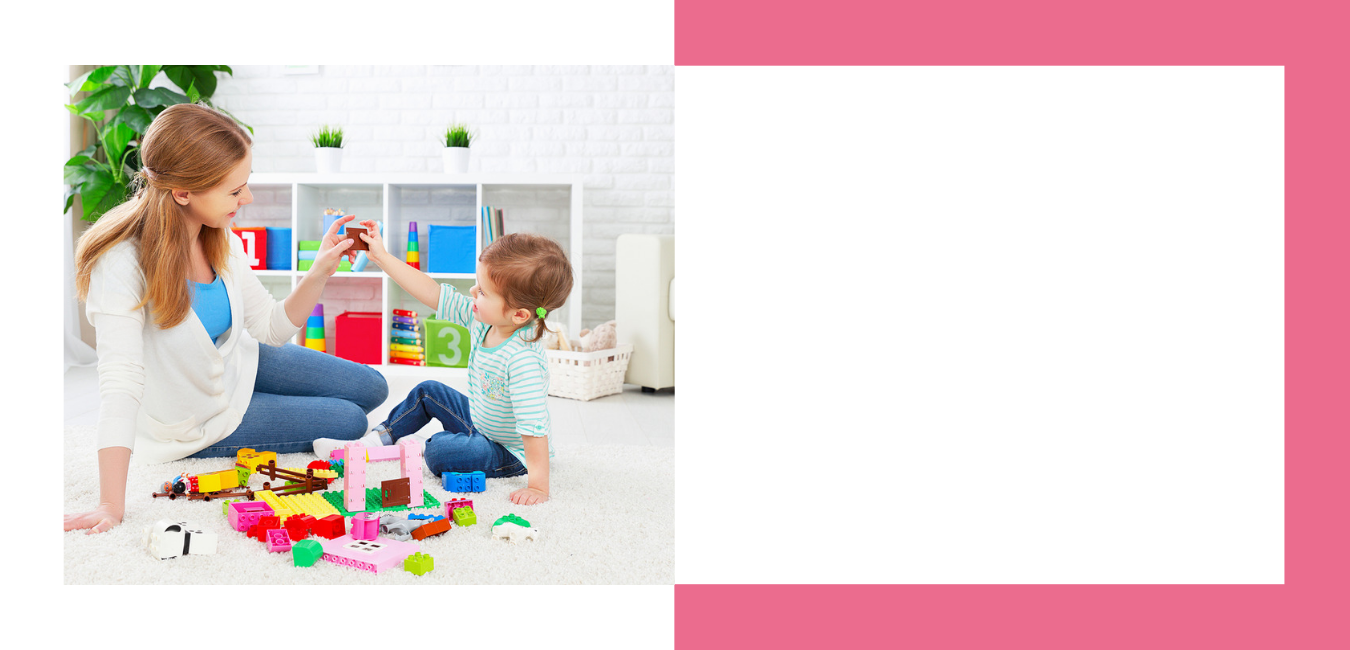
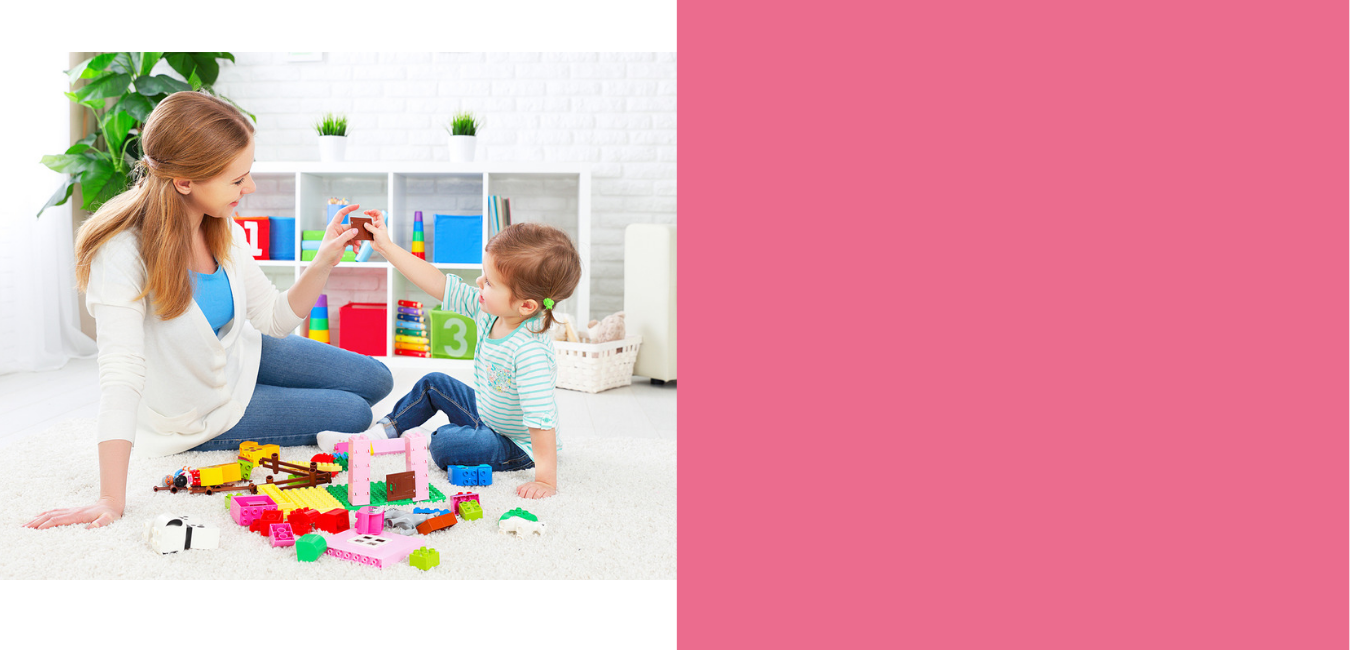
new changed with other style

diff --git a/src/app/firstpague/contact-us/popup-answer/popup-answer.component.ts b/src/app/firstpague/contact-us/popup-answer/popup-answer.component.ts
@@ -1,5 +1,5 @@
 import { Component, OnInit } from '@angular/core';
-import { MatDialog, MatDialogRef } from '@angular/material';
+import { MatDialogRef, MatSnackBar } from '@angular/material';
 import { NgForm } from '@angular/forms';
 import { SavemessageService } from 'src/app/services/savemessage.service';
 
@@ -10,15 +10,36 @@ import { SavemessageService } from 'src/app/services/savemessage.service';
 })
 export class PopupAnswerComponent implements OnInit {
 
-  constructor( public dialogRef: MatDialogRef<PopupAnswerComponent>, public dataServiceMessage : SavemessageService) { }
+  constructor( public dialogRef: MatDialogRef<PopupAnswerComponent>, public dataServiceMessage : SavemessageService, private snackBar: MatSnackBar) { }
 
   ngOnInit() {
     this.dataServiceMessage.getMessage();
   }
   
   onSendEMail(form : NgForm){
-    this.dataServiceMessage.insertDataMessage(form.value);
-    form.reset();
+    let mailValidation = form.value.mail;
+    if(mailValidation.includes("@")){
+      let sessionMessage = sessionStorage.getItem("messagueCount");
+      if( sessionMessage === null ){
+        this.dataServiceMessage.insertDataMessage(form.value);
+        sessionStorage.setItem("messagueCount","0");
+        form.reset();
+        const message = 'Información enviada...';
+        const action = '¡Gracias!';
+        this.onCloseDialog();
+        this.openSnackBar(message,action);
+      }else{
+        const message = 'No puede enviar mas de un mensaje...';
+        const action = 'ERROR!'
+        this.onCloseDialog();
+        this.openSnackBar(message,action);
+      }
+    }else{
+      const message = 'El campo de Email no tiene el formato correcto';
+      const action = 'ERROR!'
+      this.openSnackBar(message,action);
+    }
+        
   }
 
   resetForm(form? : NgForm)
@@ -36,9 +57,15 @@ export class PopupAnswerComponent implements OnInit {
     }
   }
   
-  onCloseDialog(): void {
-    this.resetForm();
+  onCloseDialog(){
+    this.resetForm();      
     this.dialogRef.close();
+  }
+
+  openSnackBar(message: string, action : string) {
+    this.snackBar.open(message, action, {
+      duration: 3000,
+    });
   }
 
 }

diff --git a/src/app/angularMaterial/material.component.ts b/src/app/angularMaterial/material.component.ts
@@ -1,6 +1,7 @@
 import { NgModule } from '@angular/core';
 import {MatExpansionModule} from '@angular/material/expansion';
 import {MatFormFieldModule} from '@angular/material/form-field';
+import {MatSnackBarModule} from '@angular/material/snack-bar';
 import { MatToolbarModule,
          MatCheckboxModule, 
          MatButtonModule,
@@ -35,7 +36,8 @@ import { MatToolbarModule,
             MatGridListModule,
             MatMenuModule,
             MatCardModule,
-            MatBadgeModule],
+            MatBadgeModule,
+            MatSnackBarModule],
  exports: [MatButtonModule, 
            MatCheckboxModule,
            MatExpansionModule,
@@ -52,7 +54,8 @@ import { MatToolbarModule,
            MatGridListModule,
            MatMenuModule,
            MatCardModule,
-           MatBadgeModule
+           MatBadgeModule,
+           MatSnackBarModule
           ],
 })
 export class MaterialComponent { }

diff --git a/src/app/firstpague/contact-us/popup-answer/popup-answer.component.html b/src/app/firstpague/contact-us/popup-answer/popup-answer.component.html
@@ -12,7 +12,7 @@
     </mat-form-field>
     
    <mat-form-field class="example-full-width">
-     <input matInput placeholder="Correo" value=""  type ="text" name="mail" #toMailt="ngModel" [(ngModel)] = "dataServiceMessage.dataMessage.mail">
+     <input matInput placeholder="Correo" value=""  type ="email" name="mail" #toMailt="ngModel" [(ngModel)] = "dataServiceMessage.dataMessage.mail" required>
    </mat-form-field>
   
    <mat-form-field class="example-full-width">

diff --git a/src/app/firstpague/offer-it/offer-it.component.css b/src/app/firstpague/offer-it/offer-it.component.css
@@ -3,7 +3,7 @@ div.imgData{
     background-size: cover;
     position: relative;
     border-radius: 5rem;
-    right: 4%;
+    right: 0%;
     width: 90%;
     height: 45%;
 }
@@ -25,7 +25,9 @@ mat-grid-list.Mobile{
 p b {
     font-family: 'Montserrat', sans-serif;
 }
-
+.colum-two{
+    background: white;
+}
 @media only screen and (max-width: 800px) {
 
     mat-grid-list.NoMobile{

diff --git a/src/app/firstpague/offer-it/offer-it.component.html b/src/app/firstpague/offer-it/offer-it.component.html
@@ -12,7 +12,7 @@
                Terapia Ocupacional en chicos transtornos del neurodesarrollo (TEA) </b></p>
      </div>
     </mat-grid-tile>
-    <mat-grid-tile>
+    <mat-grid-tile class="colum-two">
       <div class="imgData" [@scrollImg]="state" ></div>
     </mat-grid-tile>
   </mat-grid-list>

diff --git a/src/app/firstpague/whous/whous.component.css b/src/app/firstpague/whous/whous.component.css
@@ -13,8 +13,9 @@ div.container-data p {
 div.container-data{
     position: relative;
     width: 42%;
-    left: 51%;
+    left: 55%;
     top: 11rem;
+    color: white;
 }
 mat-grid-list{
     display: none;
